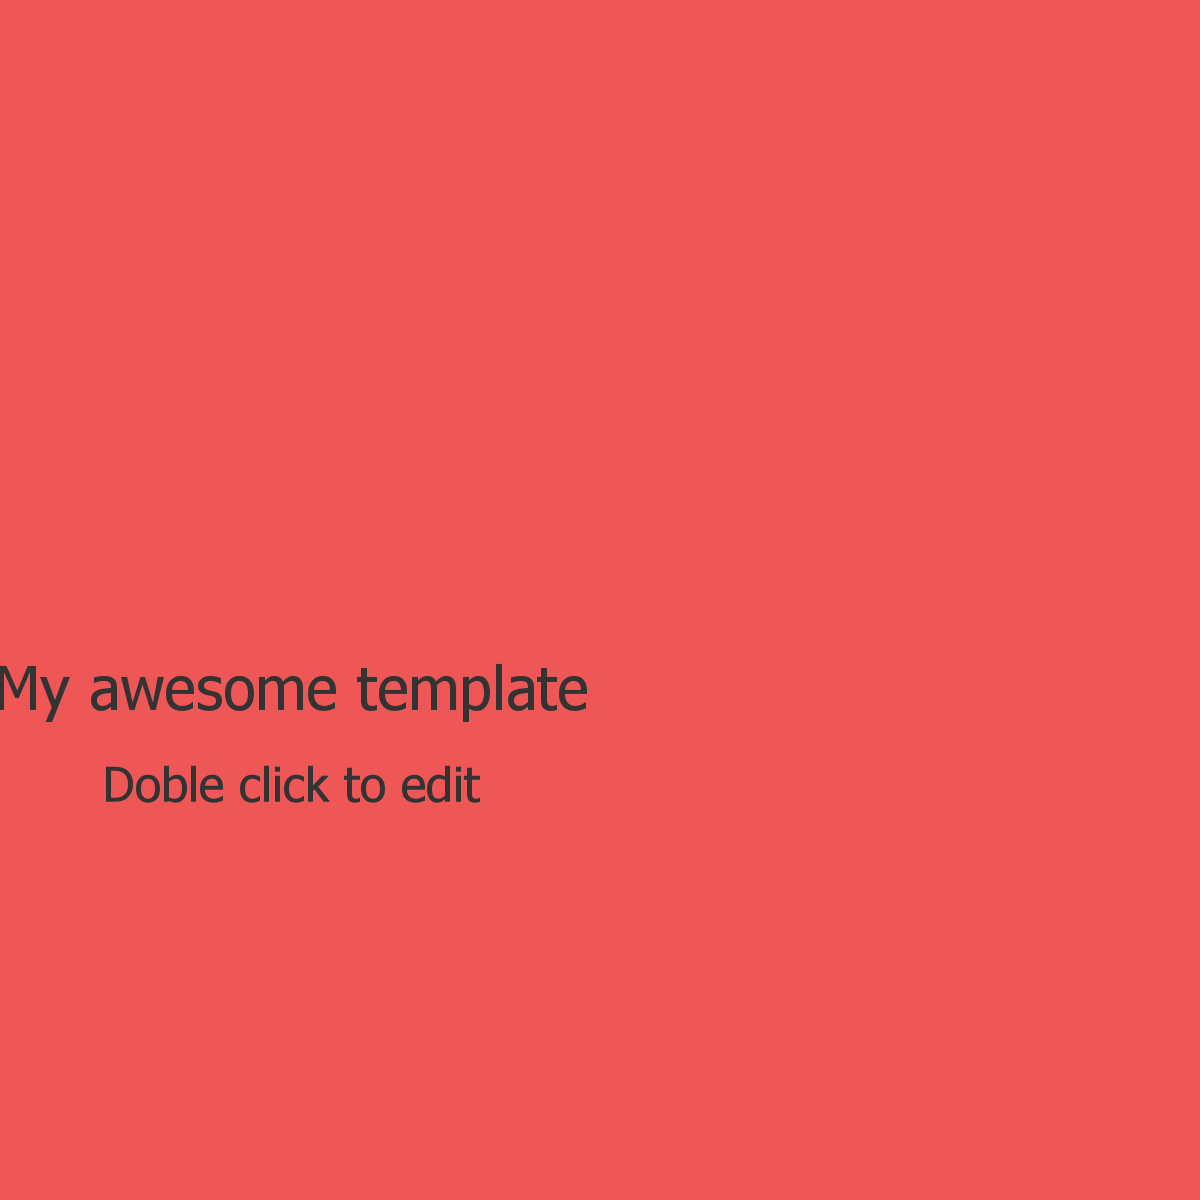
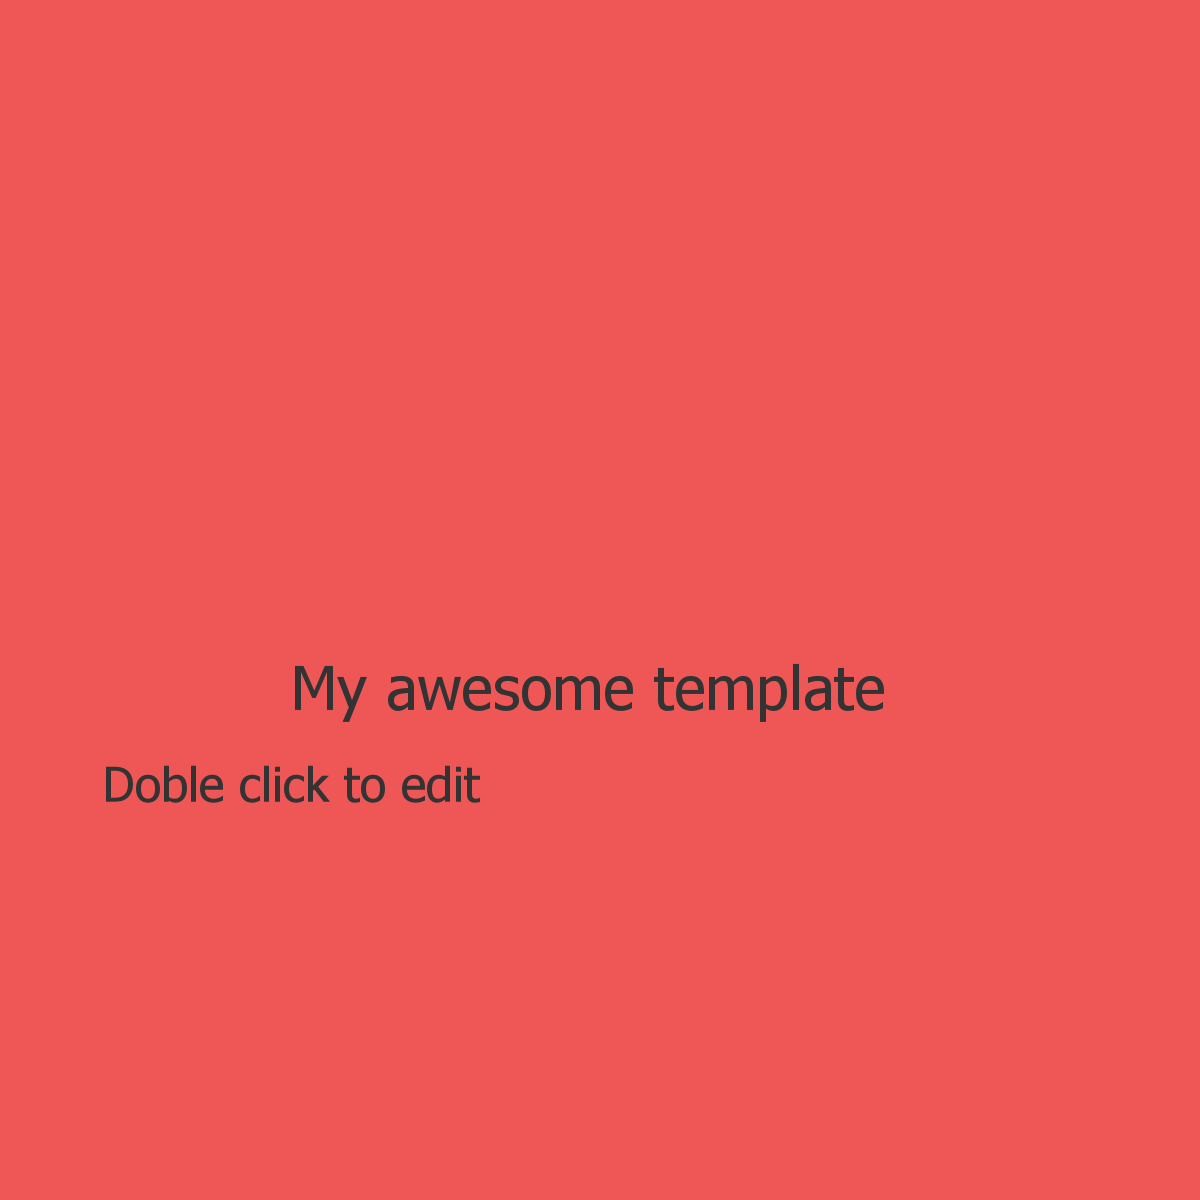
feat: save work progress

Changed region(s): [[0.0, 0.555, 0.74, 0.6167]]

diff --git a/server/app/functions/loadText.js b/server/app/functions/loadText.js
@@ -15,13 +15,10 @@ const loadText = async (ctx, content) => {
   // ctx.font = '80px Comic Sans';
   ctx.font = `${content.fontSize}px Comic Sans`;
   ctx.fillStyle = content.fill
-  console.log(content.text);
-  console.log(content.weight);
-  console.log(content.heigth);
   
   // ctx.fillText('Hello World 2', 50, 80); // (string text, position x, position y)
-  ctx.textAlign = content.textAlign;
   ctx.fillText(`${content.text}`, content.left, content.top);
+  ctx.textAlign = content.textAlign;
 };
 
 module.exports = loadText;
